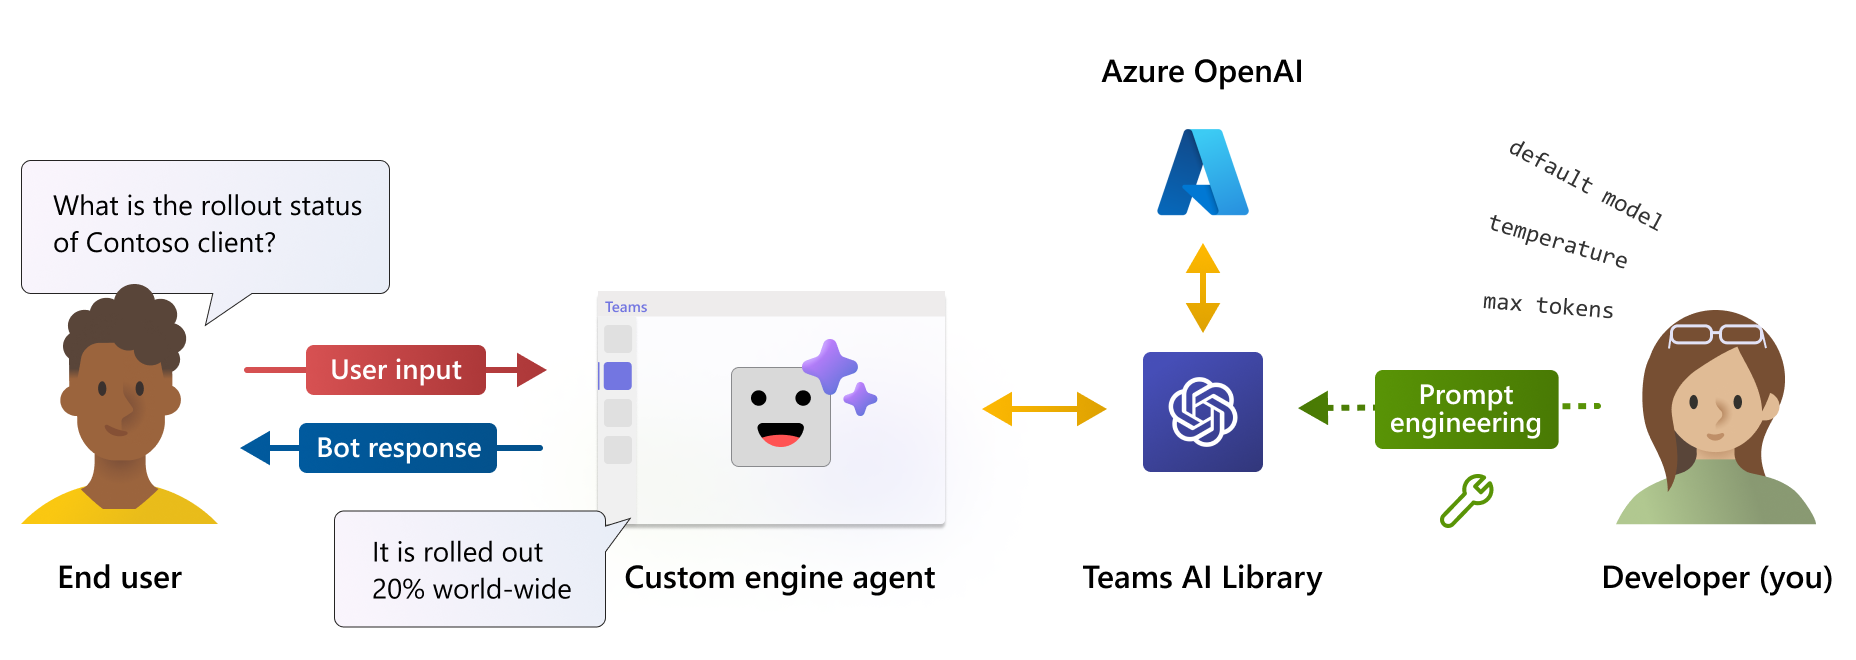
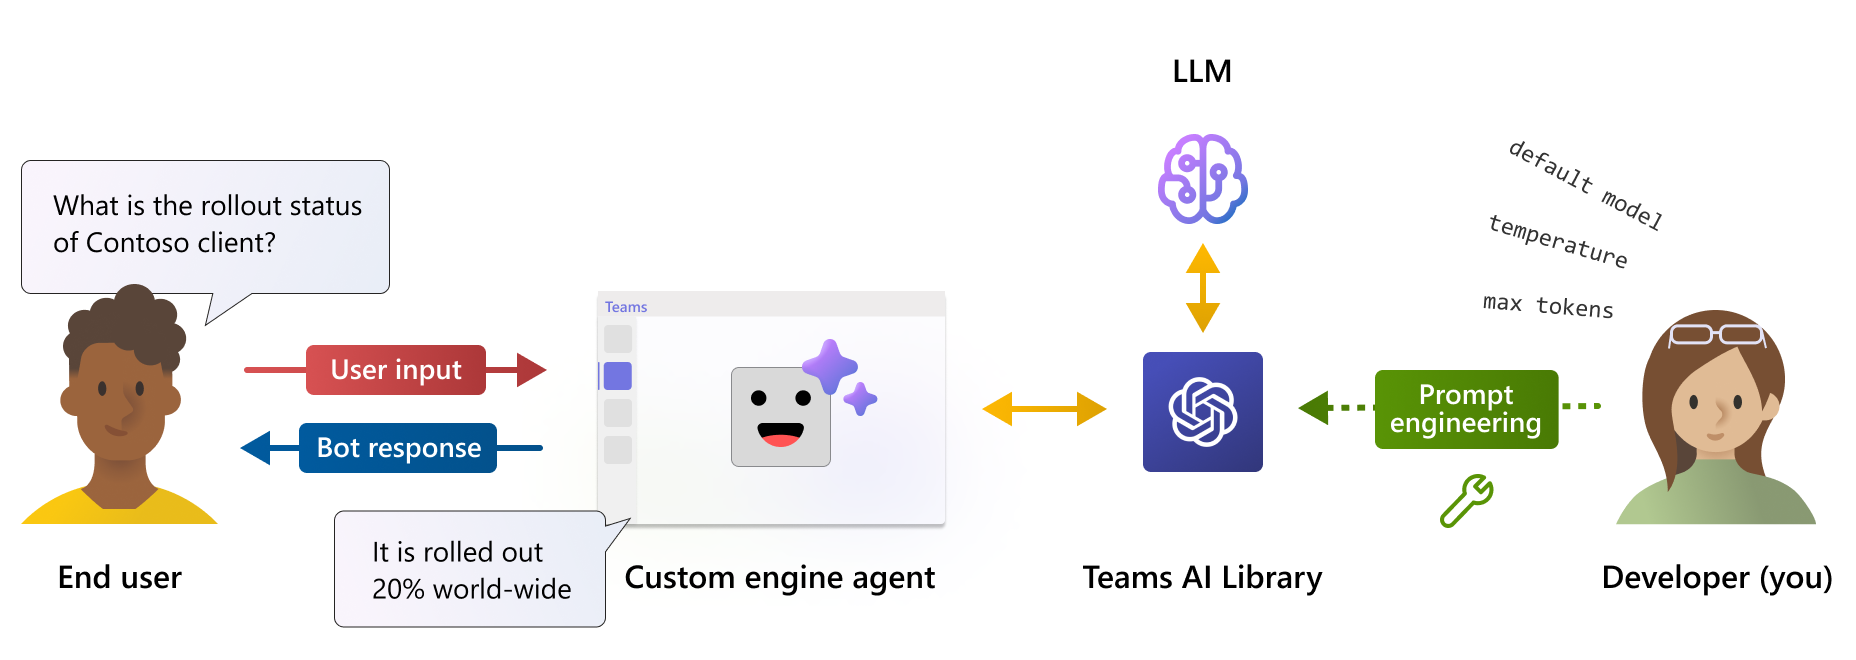
Update CEA docs. Fix #432

Changed region(s): [[0.625, 0.1818, 0.6875, 0.3333], [0.5938, 0.0909, 0.7188, 0.1212]]

diff --git a/docs/ux-custom-engine-agent.md b/docs/ux-custom-engine-agent.md
@@ -1,0 +1,60 @@
+---
+title: Custom engine agents user-experience
+description: Custom engine agents are sophisticated conversational bots designed to harness the powerful capabilities of Large Language Models (LLMs) for seamless user interaction.
+author: girliemac
+ms.author: timura
+ms.date: 01/15/2025
+ms.topic: overview
+---
+
+# Custom engine agents user-experience
+
+Think of Copilot as the user interface for AI. And agents are what users interact with through the Copilot UI, allowing them to perform various tasks by accessing and utilizing organizational data sources, effectively acting as automated helpers within the Copilot platform.
+
+The user experience (UX) in agents lies in its ability to provide intuitive, efficient, and contextually relevant interactions, enhancing user satisfaction and productivity. And the user interactions in custom engine agents include Zero prompts, Suggested prompts, Streaming responses, and more. This article walks you through the UX features and the best practice that you should be aware when building agents.
+
+## Zero prompts
+
+Zero-prompt, also known as a conversation starter, is a feature in agents that helps users initiate interactions by providing predefined prompts at the beginning of a chat session.
+
+:::image type="content" source="assets/images/agent-ux/zero-prompts.png" alt-text="A screenshot of zero prompt" border="false":::
+
+## Suggested prompts
+
+Suggested prompts are designed to guide users toward the next best actions based on the conversation context, user profiles, and organizational preferences. These prompts replace the existing functionality of dynamic suggested actions and can also be displayed within Adaptive Card responses.
+
+:::image type="content" source="assets/images/agent-ux/suggested-prompts.png" alt-text="A screenshot of Suggested prompt" border="false":::
+
+## Streaming responses
+
+Streaming responses are designed to enhance the user experience by providing real-time updates as the agent processes a request. This approach helps to prevent noticeable delays and makes interactions feel faster and more engaging.
+
+:::image type="content" source="assets/images/agent-ux/streaming-response.gif" alt-text="A screenshot of " border="false":::
+
+You can implement streaming responses using the Teams AI library. For more information, read [Streaming messages](/microsoftteams/platform/bots/streaming-ux?context=/microsoft-365-copilot/extensibility/context).
+
+## Citations
+
+Citations are references to the sources of information used by the agent to generate its responses. These citations are crucial for ensuring transparency, credibility, and trustworthiness in the agent's interactions.
+
+:::image type="content" source="assets/images/agent-ux/citations.png" alt-text="A screenshot of " border="false":::
+
+## AI labels and sensitivity labels
+
+AI labels indicate that a response is generated by AI. This transparency helps users distinguish between AI-generated and human-generated content, fostering trust in the agent's responses. These labels are automatically added to AI-generated messages using the Teams AI library.
+
+:::image type="content" source="assets/images/agent-ux/ai-labels.png" alt-text="A screenshot of AI labels" border="false":::
+
+Sensitivity labels mark responses or content that involve confidential or sensitive information. This helps maintain proper data handling and ensures that sensitive information is protected. Labels can be customized to reflect different levels of confidentiality, such as "Confidential" or "Highly Confidential," and are crucial for compliance and security.
+
+:::image type="content" source="assets/images/agent-ux/sensitivity-labels.png" alt-text="A screenshot of sensitivity labels" border="false":::
+
+For more information, read [Enhance AI-generated messages](/microsoftteams/platform/bots/how-to/bot-messages-ai-generated-content?context=/microsoft-365-copilot/extensibility/context)
+
+## Feedback loop
+
+Feedback loops are mechanisms that allow users to provide feedback on the agent's responses. This feedback helps refine and improve the agent's performance over time, ensuring that it becomes more accurate and useful.
+
+:::image type="content" source="assets/images/agent-ux/feedback.png" alt-text="A screenshot of feedback loop" border="false":::
+
+Learn more at [Feedback buttons](/microsoftteams/platform/bots/how-to/bot-messages-ai-generated-content?tabs=desktop%2Cbotmessage#feedback-buttons?context=/microsoft-365-copilot/extensibility/context).

diff --git a/docs/overview-custom-engine-agent.md b/docs/overview-custom-engine-agent.md
@@ -1,20 +1,20 @@
 ---
 title: Custom engine agents for Microsoft 365
-description: Custom engine agents are sophisticated conversational bots designed to harness the powerful capabilities of Large Language Models (LLMs) for seamless user interaction.
-author: aycabas
-ms.author: aycabas
-ms.date: 11/06/2024
+description: Custom engine agents are specialized chat experiences built on any large language model (LLM) and tailored for specific domain or workflows
+author: girliemac
+ms.author: timura
+ms.date: 01/15/2025
 ms.topic: overview
 ---
 
 
 # Custom engine agents for Microsoft 365 overview
 
-Custom engine agents are conversational Teams bots designed to harness the powerful capabilities of Large Language Models (LLMs) for seamless user interaction. These advanced bots mark a significant departure from traditional bots, offering an extensive range of features that elevate the overall user experience.
+**Custom engine agents** are specialized chat experiences built on any large language model (LLM) and tailored for specific domain or workflows. They allow organizations to create their own agents using tools like the Teams Toolkit, Microsoft Copilot Studio, and the M365 Agents SDK. Custom engine agents allow you to use your custom orchestrators, foundation models, and custom logic.
 
 :::image type="content" source="assets/images/teams-ai-library.png" alt-text="A diagram that shows how a custom engine agent in Teams works" lightbox="/microsoftteams/platform/assets/images/bots/teams-ai-library.png" border="false":::
 
-Custom engine agents utilize LLM technology that allows them to easily understand and respond to user queries, creating dynamic and immersive interactions. Custom engine agents also offer advanced functionalities such as UI manipulation, task execution, and content creation. These capabilities make custom engine agents indispensable tools for streamlining workflows and boosting productivity.
+Custom engine agents utilize LLM technology that allows them to easily understand and respond to user queries, creating dynamic and immersive interactions. Custom engine agents also offer advanced functionalities such as task execution and content creation. These capabilities make custom engine agents indispensable tools for streamlining workflows and boosting productivity.
 
 [!INCLUDE [preview-disclaimer-copilot](includes/preview-disclaimer-copilot-no-license.md)]
 
@@ -52,9 +52,13 @@ Explore sample scenarios available in [Teams AI library GitHub repository](https
 
 ### Microsoft Copilot Studio
 
-Microsoft Copilot Studio empowers teams to quickly and easily create powerful copilots using a guided, no-code graphical experience without needing data scientists or developers.
+Microsoft Copilot Studio is a versatile platform that allows you to build and customize agents using low-code and pro-code tools. It integrates with Azure AI services and offers over 1,000 connectors, enabling the creation of sophisticated, multi-channel conversational agents.
 
-[!INCLUDE [copilot-studio-agent-naming](includes/copilot-studio-agent-naming.md)]
+### Microsoft 365 Agents SDK
+
+Microsoft 365 Agents SDK seamlessly integrates with AI services like Azure AI Foundry and orchestration layers such as Semantic Kernel. It offers interoperability with Copilot Studio, enabling you to enhance and extend existing agents with additional skills. This allows makers to delegate tasks to other agent functionalities. Additionally, you can connect to a Copilot Studio agent from code, gaining access to the full range of features within the Copilot Studio ecosystem. 
+
+Learn more: [Microsoft 365 Agents SDK](/microsoft-365/agents-sdk/) (Preview).
 
 ## Related content
 
